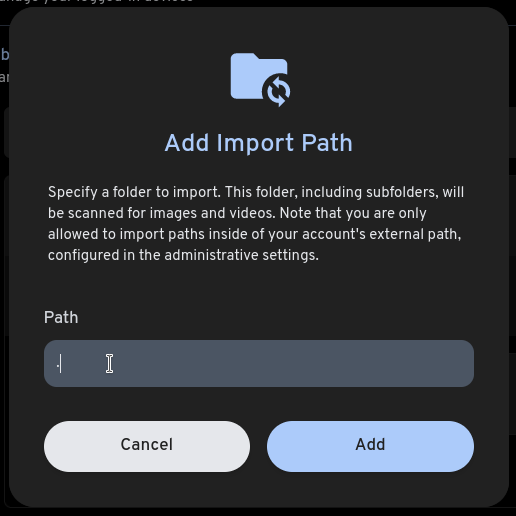
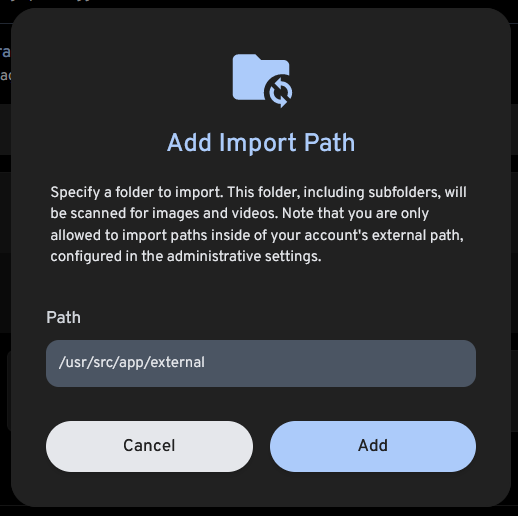
fix(docs): Use absolute path for external library guide (#6290)
* fix(docs): Use absolute path for external library guide

* fix: Cursor in screenshot

diff --git a/docs/docs/guides/external-library.md b/docs/docs/guides/external-library.md
@@ -78,7 +78,7 @@ In the Immich web UI:
 - Click \*_Add path_
   <img src={require('./img/add-path-button.png').default} width="50%" title="Add Path button" />
 
-- Enter **.** as the path and click Add
+- Enter **/usr/src/app/external** as the path and click Add
   <img src={require('./img/add-path-field.png').default} width="50%" title="Add Path field" />
 
 - Save the new path
